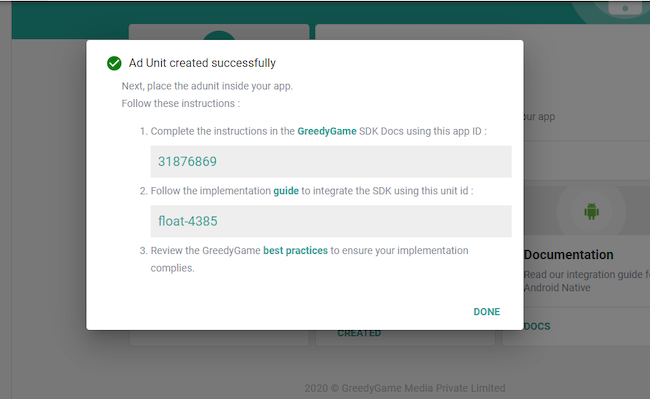
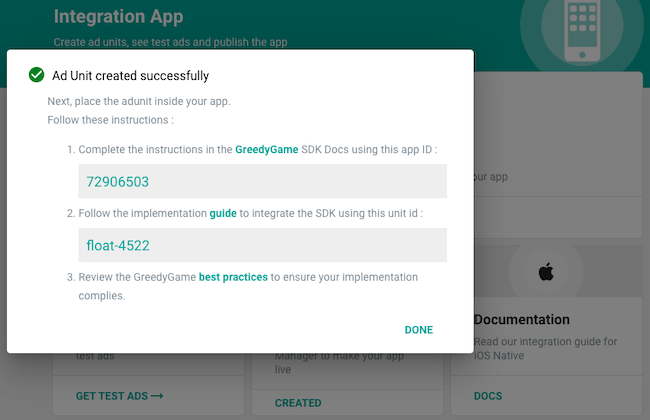
Changed the screenshots for iOS for app and unit creation and highlighted the necessary details from it.Also changed some of the details

diff --git a/docs/8-8-17/iOS/ios-test-ads.md b/docs/8-8-17/iOS/ios-test-ads.md
@@ -10,9 +10,9 @@ Click on **Testing** in the left panel, or click on **Get Test Ads**
 
 If you are testing for the first time, you will have to add a test device. Click on **Add New Device** in the left panel or on **Create**
 
-<img src="/img/newiOS/b_test_ads.png" alt="" style="margin-left: 50px" width="650" height="280">
+<img src="/img/newiOS/b_test_ads.png" alt="" style="margin-left: 50px" width="650" height="335">
 
-Select the app you want to test by clicking on **App ID** and enter the **Advertising ID** of the iOS device you want to get test ads on
+Enter the **Advertising ID** of the iOS device you want to get test ads on
    
    * Install the app <a target="_blank" rel="noopener noreferrer" href="https://apps.apple.com/us/app/myidfa/id1099872451
 ">MyIDFA</a> or any other apps like <a target="_blank" rel="noopener noreferrer" href="https://apps.apple.com/bg/app/whatsmyidfa/id1313131350">WhatsMyIDFA</a>, <a target="_blank" rel="noopener noreferrer" href="https://apps.apple.com/us/app/my-device-id-by-appsflyer/id1192323960">DeviceId</a>..etc from AppStore to get your device Advertising id.
@@ -30,7 +30,7 @@ Click on **Get Test Ads** to start getting test ads. Open your app in the testin
 <center><img src="/img/newiOS/e_test_ads.png" alt="" style="margin-left: 50px" width="650" height="296"></center>
 
 !!! Important "Remove simulator architecture from GreedyGame SDK"
-    Greedygame SDK has simulator architecture.You need to remove this architecture by <a target="_blank" rel="noopener noreferrer" href="https://github.com/GreedyGame/ios-native-plugin">add the script</a> under `Note` section as run script in build phases.
+    Greedygame SDK has simulator architecture.You need to remove this architecture by <a target="_blank" rel="noopener noreferrer" href="https://github.com/GreedyGame/ios-native-plugin">add the script</a> under `Note` section as a run script in build phases.
 
 ## **Build Verification**
 

diff --git a/docs/8-8-17/iOS/ios-rendering-ads.md b/docs/8-8-17/iOS/ios-rendering-ads.md
@@ -87,11 +87,11 @@ UITapGestureRecognizer *tapGesture = [[UITapGestureRecognizer alloc]initWithTarg
 	if (path.length != 0){
 		// GreedyGameAgent has an ad that can be rendered for this Unit id. 
 	    nativeAdImageView.image = [UIImage imageWithContentsOfFile:path];
-	    nativeAdImageView.userInteractionEnabled = YES
+	    nativeAdImageView.userInteractionEnabled = YES;
 	}else{
 		// GreedyGame does not have a valid Ad for this Unit id at the moment
 	    nativeAdImageView.image = [UIImage imageNamed:@"Default_Image_Name"];
-		nativeAdImageView.userInteractionEnabled = YES
+		nativeAdImageView.userInteractionEnabled = NO;
 	}
 }
 ```
@@ -100,7 +100,7 @@ UITapGestureRecognizer *tapGesture = [[UITapGestureRecognizer alloc]initWithTarg
 
 !!! warning
     
-    It's the publisher responsibility to call `getPath(unitId)` at relevant places to render the ads. For example, in `onAvailable()` callback of the `CampaignStateListener` or when you are changing the `Activity`, calling `getPath(unitId)` at the start of the activity will help you display the ad correctly
+    It's the publisher responsibility to call `getPath(unitId)` at relevant places to render the ads. For example, in `onAvailable()` callback of the `CampaignStateListener` or when you are changing the `ViewController`, calling `getPath(unitId)` at the start of the ViewController will help you display the ad correctly
 
 
 **NOTE:** When the Campaign state is `onUnavailable()` or `onError(error)`, ensure that you replace the ad unit by the default texture of your app.

diff --git a/docs/ios-rendering-ads.md b/docs/ios-rendering-ads.md
@@ -87,11 +87,11 @@ UITapGestureRecognizer *tapGesture = [[UITapGestureRecognizer alloc]initWithTarg
 	if (path.length != 0){
 		// GreedyGameAgent has an ad that can be rendered for this Unit id. 
 	    nativeAdImageView.image = [UIImage imageWithContentsOfFile:path];
-	    nativeAdImageView.userInteractionEnabled = YES
+	    nativeAdImageView.userInteractionEnabled = YES;
 	}else{
 		// GreedyGame does not have a valid Ad for this Unit id at the moment
 	    nativeAdImageView.image = [UIImage imageNamed:@"Default_Image_Name"];
-		nativeAdImageView.userInteractionEnabled = YES
+		nativeAdImageView.userInteractionEnabled = NO;
 	}
 }
 ```
@@ -100,7 +100,7 @@ UITapGestureRecognizer *tapGesture = [[UITapGestureRecognizer alloc]initWithTarg
 
 !!! warning
     
-    It's the publisher responsibility to call `getPath(unitId)` at relevant places to render the ads. For example, in `onAvailable()` callback of the `CampaignStateListener` or when you are changing the `Activity`, calling `getPath(unitId)` at the start of the activity will help you display the ad correctly
+    It's the publisher responsibility to call `getPath(unitId)` at relevant places to render the ads. For example, in `onAvailable()` callback of the `CampaignStateListener` or when you are changing the `ViewController`, calling `getPath(unitId)` at the start of the ViewController will help you display the ad correctly
 
 
 **NOTE:** When the Campaign state is `onUnavailable()` or `onError(error)`, ensure that you replace the ad unit by the default texture of your app.

diff --git a/docs/8-8-17/android/android-test-ads.md b/docs/8-8-17/android/android-test-ads.md
@@ -11,14 +11,13 @@ Click on **Testing** in the left panel, or click on **Get Test Ads**
 If you are testing for the first time, you will have to add a test device. Click on **Add New Device** in the left panel or on **Create**
 
 <img src="/img/new/16b_test_ads.png" alt="" style="margin-left: 50px" width="600" height="330">
-
-Select the app you want to test by clicking on **App ID** and enter the **Advertising ID** of the Android device you want to get test ads on
+Enter the **Advertising ID** of the Android device you want to get test ads on
    
    * The Advertising ID can be found on your device in **Settings > Google > Ads**
 
    * Please make sure that the app you are testing should be on the device you have added for testing.
 
-<img src="/img/new/16c_test_ads.png" alt="" style="margin-left: 50px" width="600" height="330">
+<img src="/img/newiOS/c_test_ads.png" alt="" style="margin-left: 50px" width="600" height="335">
 
 Once your device is added it will be shown on the Panel
 

diff --git a/docs/ios-test-ads.md b/docs/ios-test-ads.md
@@ -12,7 +12,7 @@ If you are testing for the first time, you will have to add a test device. Click
 
 <img src="/img/newiOS/b_test_ads.png" alt="" style="margin-left: 50px" width="650" height="280">
 
-Select the app you want to test by clicking on **App ID** and enter the **Advertising ID** of the iOS device you want to get test ads on
+Enter the **Advertising ID** of the iOS device you want to get test ads on
    
    * Install the app <a target="_blank" rel="noopener noreferrer" href="https://apps.apple.com/us/app/myidfa/id1099872451
 ">MyIDFA</a> or any other apps like <a target="_blank" rel="noopener noreferrer" href="https://apps.apple.com/bg/app/whatsmyidfa/id1313131350">WhatsMyIDFA</a>, <a target="_blank" rel="noopener noreferrer" href="https://apps.apple.com/us/app/my-device-id-by-appsflyer/id1192323960">DeviceId</a>..etc from AppStore to get your device Advertising id.

diff --git a/docs/8-8-17/iOS/ios-import-sdk.md b/docs/8-8-17/iOS/ios-import-sdk.md
@@ -71,13 +71,13 @@ For `XCode 11.2`, `XCode 11.2.1` and `XCode 11.3`,
 
   <a target="_blank" rel="noopener noreferrer" href="https://github.com/GreedyGame/ios-native-plugin/archive/1.0.5.3.zip" class="pure-material-button-contained">Download GreedyGame SDK For XCode 11.2, 11.2.1 and 11.3</a>
 
- * Unzip and then add the `greedygame.framework`, `commons.framework` and `imageProcessing.framework` into your project.
+ * Unzip the downloaded SDK file and then add `greedygame.framework`, `commons.framework` and `imageProcessing.framework` into your project.
 
-*For Xcode series 10,*
+For Xcode series 10,
 
    * Add these 3 frameworks under `Embedded Binaries` section in General or Build Phases
 
-*For XCode series 11,*
+For XCode series 11,
 
    * Add these 3 frameworks under `Frameworks, Libraries and Embedded Content` section in General and set `Embed&Sign` like below
 

diff --git a/docs/android-test-ads.md b/docs/android-test-ads.md
@@ -12,13 +12,13 @@ If you are testing for the first time, you will have to add a test device. Click
 
 <img src="/img/new/16b_test_ads.png" alt="" style="margin-left: 50px" width="600" height="330">
 
-Select the app you want to test by clicking on **App ID** and enter the **Advertising ID** of the Android device you want to get test ads on
+Enter the **Advertising ID** of the Android device you want to get test ads on
    
    * The Advertising ID can be found on your device in **Settings > Google > Ads**
 
    * Please make sure that the app you are testing should be on the device you have added for testing.
 
-<img src="/img/new/16c_test_ads.png" alt="" style="margin-left: 50px" width="600" height="330">
+<img src="/img/newiOS/c_test_ads.png" alt="" style="margin-left: 50px" width="600" height="335">
 
 Once your device is added it will be shown on the Panel
 

diff --git a/docs/ios-import-sdk.md b/docs/ios-import-sdk.md
@@ -38,5 +38,5 @@ If you are building with `XCode 10.2`, `XCode 10.2.1`
 
   <a target="_blank" rel="noopener noreferrer" href="https://github.com/GreedyGame/ios-native-plugin/archive/1.0.4.1.zip" class="pure-material-button-contained">Download SDK For XCode 10.2 and 10.2.1</a>
 
- * Unzip and then add the `greedygame.framework`, `commons.framework` and `imageProcessing.framework` into your project.
+ * Unzip the downloaded SDK file and then add `greedygame.framework`, `commons.framework` and `imageProcessing.framework` into your project.
  * Add these 3 frameworks under `Embedded Binaries` section in General or Build Phases.

diff --git a/docs/ios-start.md b/docs/ios-start.md
@@ -19,7 +19,7 @@ To start the integration, add your app on the Integration Panel, by clicking on 
 
 Once your app is added, you will find a unique **App ID** for your app. Please note it as this App ID will be required during integration
 
-<center><img src="/img/new/1c_app_added.png" alt="" style="margin-left: 0px" width="680" height="400"></center>
+<center><img src="/img/newiOS/1c_app_added.png" alt="" style="margin-left: 0px" width="650" height="380"></center>
 
 
 !!! note

diff --git a/docs/ios-add-ad-unit.md b/docs/ios-add-ad-unit.md
@@ -24,7 +24,7 @@ Native Ad Units are of two types:
 
 ** Once the Ad Unit is created, note the App ID and Ad Unit ID and proceed for integration **
 
-<center><img src="/img/newiOS/3c_proceed_to_integrate.png" alt="" style="margin-left: 0px" width="650" height="400"></center>
+<center><img src="/img/newiOS/3c_proceed_to_integrate.png" alt="" style="margin-left: 0px" width="650" height="420"></center>
 
 Follow the same procedure to create multiple Ad Units inside the app.
 

diff --git a/docs/8-8-17/iOS/ios-add-dependencies.md b/docs/8-8-17/iOS/ios-add-dependencies.md
@@ -1,0 +1,14 @@
+### **Dependency Libraries**
+Include the Admob ios sdk into your project via cocoapod:
+
+```Cocoapod
+	pod 'Google-Mobile-Ads-SDK', "7.31"
+```
+
+GreedyGame SDK has been tested to work correctly with 7.28 to 7.40 of the Google-Mobile-Ads sdk. Support for future versions is experimental.
+
+!!! NOTE
+    The minimum Google-Mobile-Ads sdk version supported is 7.28 and the maximum is 7.40.
+
+
+    

diff --git a/docs/ios-add-dependencies.md b/docs/ios-add-dependencies.md
@@ -1,0 +1,12 @@
+### **Dependency Libraries**
+
+Include the Admob ios sdk into your project via cocoapod:
+
+```Cocoapod
+	pod 'Google-Mobile-Ads-SDK', "7.31"
+```
+
+GreedyGame SDK has been tested to work correctly with 7.22 to 7.40 of the Google-Mobile-Ads sdk. Support for future versions is experimental.
+
+!!! NOTE
+    The minimum Google-Mobile-Ads sdk version supported is 7.22 and the maximum is 7.40.
